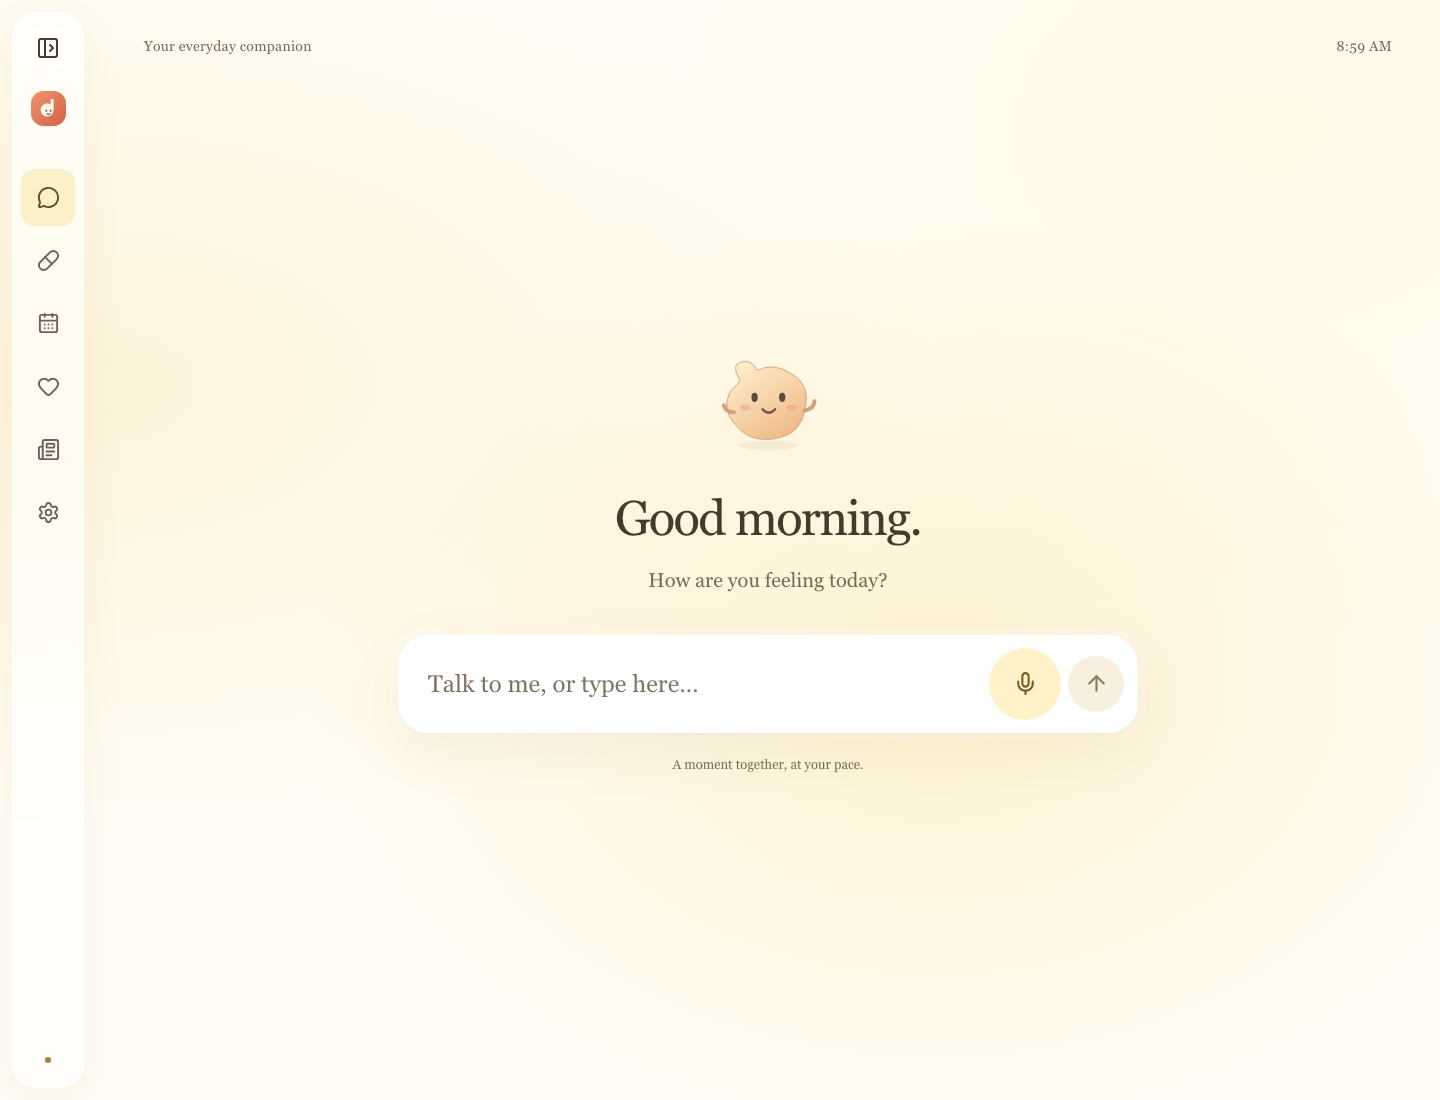
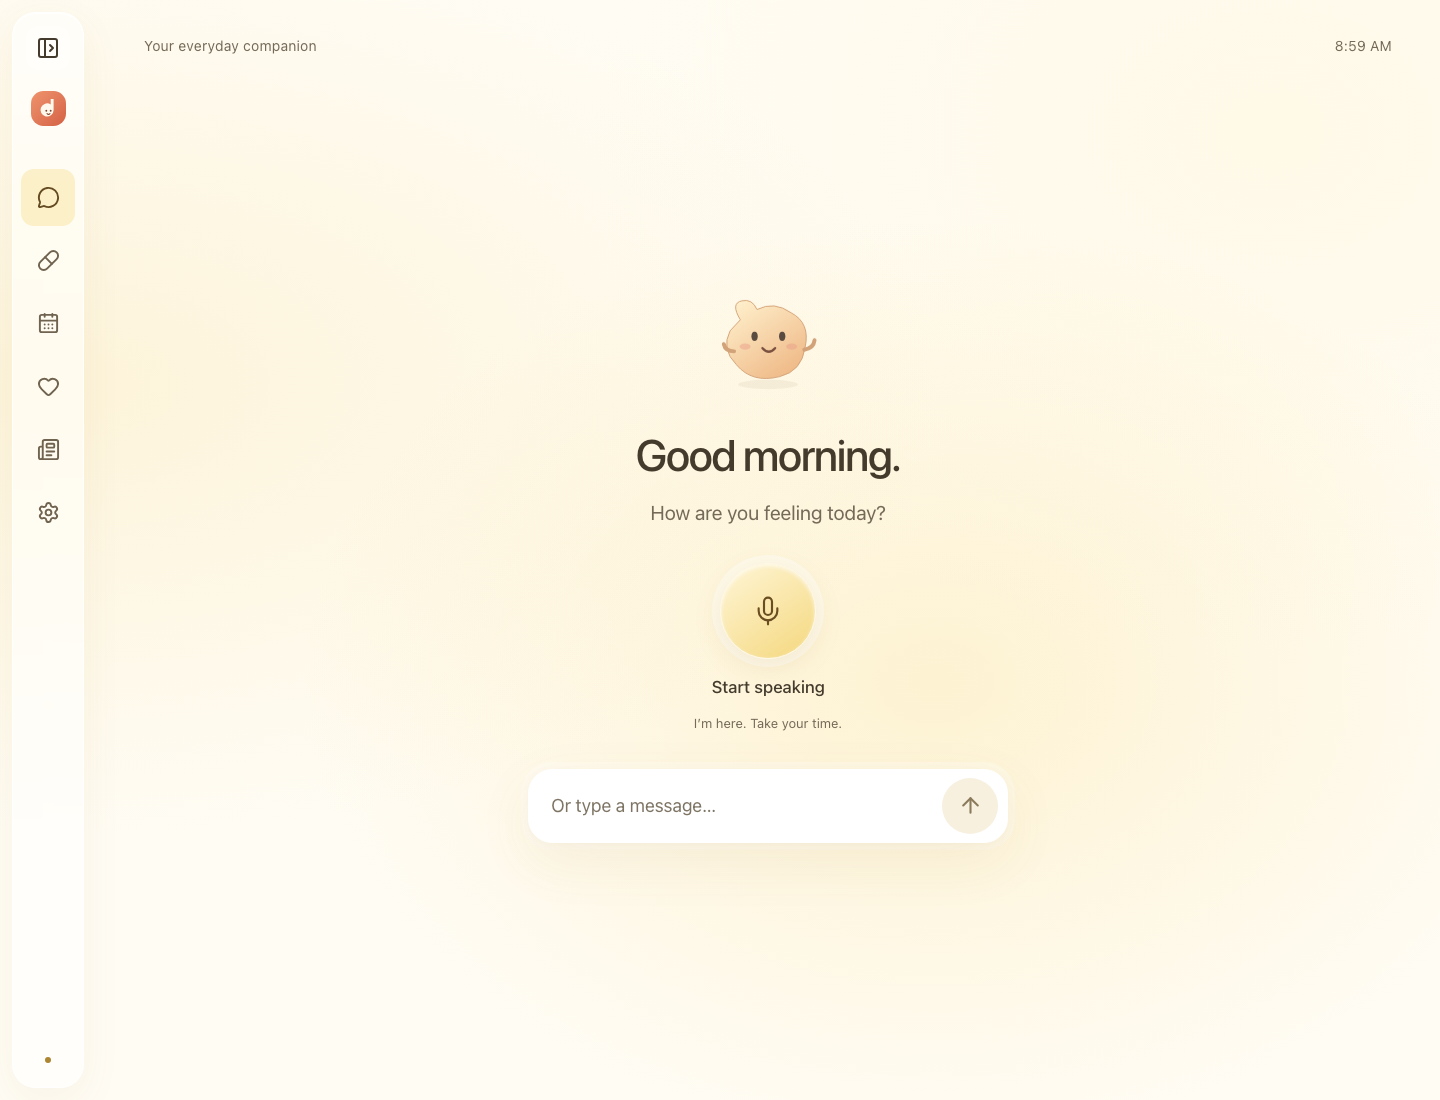
Make speaking the clearest way to begin with Dayla
Constraint: Replace serif typography with a clean voice-first interface.
Confidence: high
Scope-risk: narrow
Tested: 17 browser tests including voice lifecycle, accessibility and reflow; build, typecheck, lint, format, visual review

diff --git a/src/client/App.tsx b/src/client/App.tsx
@@ -373,8 +373,41 @@ export default function App() {
                 <h1 tabIndex={-1}>{greeting}</h1>
                 <p>How are you feeling today?</p>
               </div>
+              <button
+                type="button"
+                className={`voice-trigger ${voice.phase === 'listening' ? 'is-listening' : ''}`}
+                aria-label={voice.phase === 'listening' ? 'Finish speaking' : 'Start speaking'}
+                aria-describedby="voice-status"
+                disabled={!online || sending}
+                onClick={micClick}
+              >
+                <span className="voice-orb" aria-hidden="true">
+                  {voice.phase === 'listening' ? (
+                    <Square size={28} />
+                  ) : (
+                    <Mic size={32} strokeWidth={1.6} />
+                  )}
+                </span>
+                <span>{voice.phase === 'listening' ? 'Finish speaking' : 'Start speaking'}</span>
+              </button>
+              <div id="voice-status" className="conversation-status" role="status">
+                {sending ? 'Thinking…' : voice.message || 'I’m here. Take your time.'}
+              </div>
+              {(voice.phase === 'speaking' ||
+                voice.phase === 'listening' ||
+                voice.phase === 'thinking') && (
+                <button className="quiet-control" onClick={cancelSpeech}>
+                  <Square size={16} />
+                  Stop{' '}
+                  {voice.phase === 'listening'
+                    ? 'listening'
+                    : voice.phase === 'thinking'
+                      ? 'waiting'
+                      : 'speaking'}
+                </button>
+              )}
               <form
-                className={`composer ${voice.phase === 'listening' ? 'is-listening' : ''}`}
+                className="composer"
                 onSubmit={(e) => {
                   e.preventDefault();
                   void send(input);
@@ -387,23 +420,12 @@ export default function App() {
                   id="message"
                   value={input}
                   maxLength={1000}
-                  placeholder={
-                    voice.phase === 'listening' ? 'I’m listening…' : 'Talk to me, or type here…'
-                  }
+                  placeholder="Or type a message…"
                   onChange={(e) => setInput(e.target.value)}
                   disabled={sending}
                   autoComplete="off"
                 />
                 <div className="composer-actions">
-                  <button
-                    type="button"
-                    className={`mic-button icon-button ${voice.phase === 'listening' ? 'listening' : ''}`}
-                    aria-label={voice.phase === 'listening' ? 'Finish speaking' : 'Start speaking'}
-                    disabled={!online || sending}
-                    onClick={micClick}
-                  >
-                    {voice.phase === 'listening' ? <Square size={23} /> : <Mic size={25} />}
-                  </button>
                   <button
                     type="submit"
                     className="send-button icon-button"
@@ -429,22 +451,6 @@ export default function App() {
                     Use browser voice
                   </button>
                 </div>
-              )}
-              <div className="conversation-status" role="status">
-                {sending ? 'Thinking…' : voice.message || 'A moment together, at your pace.'}
-              </div>
-              {(voice.phase === 'speaking' ||
-                voice.phase === 'listening' ||
-                voice.phase === 'thinking') && (
-                <button className="quiet-control" onClick={cancelSpeech}>
-                  <Square size={16} />
-                  Stop{' '}
-                  {voice.phase === 'listening'
-                    ? 'listening'
-                    : voice.phase === 'thinking'
-                      ? 'waiting'
-                      : 'speaking'}
-                </button>
               )}
               {!!turns.length && (
                 <section

diff --git a/src/client/styles.css b/src/client/styles.css
@@ -1,5 +1,5 @@
 :root {
-  font-family: Georgia, 'Times New Roman', serif;
+  font-family: -apple-system, BlinkMacSystemFont, 'Segoe UI', Arial, sans-serif;
   color: #443b2d;
   background: #fffcf4;
   font-synthesis: none;
@@ -95,8 +95,8 @@ p {
 }
 h1,
 h2 {
-  font-family: Georgia, 'Times New Roman', serif;
-  font-weight: 400;
+  font-family: -apple-system, BlinkMacSystemFont, 'Segoe UI', Arial, sans-serif;
+  font-weight: 500;
   letter-spacing: -0.035em;
   line-height: 1.22;
 }
@@ -316,12 +316,12 @@ small {
 }
 .welcome {
   text-align: center;
-  margin-bottom: 39px;
+  margin-bottom: 22px;
 }
 .welcome h1 {
-  font-size: clamp(35px, 4vw, 49px);
+  font-size: clamp(34px, 3.5vw, 44px);
   margin: 23px 0 15px;
-  font-weight: 400;
+  font-weight: 500;
   letter-spacing: -0.035em;
 }
 .welcome p {
@@ -339,10 +339,11 @@ small {
   display: flex;
   align-items: center;
   gap: 14px;
-  width: 100%;
-  padding: 12px 13px 12px 29px;
+  width: min(480px, 100%);
+  margin-top: 28px;
+  padding: 8px 9px 8px 22px;
   border: 1px solid #fff;
-  border-radius: 30px;
+  border-radius: 24px;
   background: #fff;
   box-shadow:
     0 18px 55px #93732b14,
@@ -364,7 +365,7 @@ small {
   flex: 1;
   min-height: 56px;
   padding: 6px 0;
-  font-size: 20px;
+  font-size: 18px;
   outline: none;
   color: var(--ink);
 }
@@ -379,13 +380,50 @@ small {
   gap: 7px;
   align-items: center;
 }
-.mic-button {
-  background: #fff2c9;
-  color: #785b25;
+.voice-trigger {
+  flex-direction: column;
+  gap: 18px;
+  border: 0;
+  border-radius: 24px;
+  background: transparent;
+  padding: 12px 24px;
+  font-size: 17px;
+  font-weight: 500;
+  color: var(--ink);
 }
-.mic-button:hover,
-.mic-button.listening {
-  background: #f9e5a8;
+.voice-trigger:hover {
+  background: transparent;
+}
+.voice-orb {
+  display: grid;
+  place-items: center;
+  width: 96px;
+  height: 96px;
+  border-radius: 50%;
+  background: linear-gradient(145deg, #fff6d7, #f4d77d);
+  border: 1px solid #fff9e8;
+  box-shadow:
+    0 8px 28px #a77c2420,
+    0 0 0 8px #ffffff66,
+    inset 0 2px 4px #ffffffb3;
+  color: #6a4d20;
+  transition:
+    box-shadow 0.2s,
+    transform 0.2s;
+}
+.voice-trigger:hover .voice-orb {
+  transform: translateY(-2px);
+  box-shadow:
+    0 12px 32px #a77c2430,
+    0 0 0 10px #ffffff80,
+    inset 0 2px 4px #ffffffb3;
+}
+.voice-trigger.is-listening .voice-orb {
+  background: #765323;
+  color: white;
+  box-shadow:
+    0 0 0 8px #f2d78b80,
+    0 0 0 16px #f2d78b30;
 }
 .send-button {
   background: #765323;
@@ -399,18 +437,12 @@ small {
   color: #8b7b5c;
   opacity: 1;
 }
-.composer.is-listening {
-  border-color: #b28a32;
-  box-shadow:
-    0 0 0 6px #f7df9555,
-    0 9px 35px #93732b14;
-}
 .conversation-status {
   font-size: 13px;
   text-align: center;
   color: #756a58;
   min-height: 28px;
-  margin-top: 21px;
+  margin: 4px 0 0;
   line-height: 1.65;
   max-width: 560px;
 }
@@ -1028,7 +1060,7 @@ dialog h2 {
   }
   .conversation-status {
     font-size: 12px;
-    margin-top: 20px;
+    margin-top: 4px;
     max-width: 290px;
   }
   .has-turns {
@@ -1160,10 +1192,10 @@ dialog h2 {
   display: inline-flex;
   align-items: center;
   gap: 11px;
-  font-family: Georgia, 'Times New Roman', serif;
+  font-family: -apple-system, BlinkMacSystemFont, 'Segoe UI', Arial, sans-serif;
   font-size: 29px;
-  font-weight: 500;
-  letter-spacing: -1.5px;
+  font-weight: 650;
+  letter-spacing: -1.2px;
   line-height: 1;
 }
 .wordmark .dayla-logo svg {
@@ -1197,14 +1229,6 @@ dialog h2 {
 }
 .character-thinking {
   animation: dayla-think 1.8s ease-in-out infinite;
-}
-.composer .mic-button {
-  width: 72px;
-  height: 72px;
-  min-height: 72px;
-}
-.composer input {
-  font-size: 24px;
 }
 .conversation-turn p {
   font-size: 28px;
@@ -1250,12 +1274,6 @@ dialog h2 {
   }
   .composer input {
     font-size: 18px;
-  }
-  .composer .mic-button {
-    width: 60px;
-    height: 72px;
-    min-height: 72px;
-    border-radius: 22px;
   }
   .composer .send-button {
     width: 42px;

diff --git a/docs/DESIGN.md b/docs/DESIGN.md
@@ -2,7 +2,7 @@
 
 ## Current direction
 
-The 2026-10-20 voice-first request supersedes the earlier Korean card dashboard. The interface is English. Home contains a time-of-day greeting, a small original character and one composer with microphone and send controls. Subtle warm yellow light sits behind the interaction area; generous white space keeps the starting state quiet. Translucent white panels use backdrop blur, white edge highlights and soft amber shadows. The composer and form inputs stay white for a clear reading surface. Georgia, with Times New Roman and serif fallbacks, gives headings, body copy and the wordmark a consistent serif treatment without a font download.
+The 2026-10-20 voice-first request supersedes the earlier Korean card dashboard. The interface is English. Home contains a time-of-day greeting, a small original character and a prominent standalone microphone button. Voice status appears directly beneath it; a smaller white text composer provides an always-available alternative. Subtle warm yellow light sits behind the interaction area; generous white space keeps the starting state quiet. Translucent white panels use backdrop blur, white edge highlights and soft amber shadows. The composer and form inputs stay white for a clear reading surface. Native system sans-serif typography keeps headings, body copy and controls clear without a font download.
 
 The left sidebar opens Conversation, Medication, Schedule, Family, News and Settings. It starts as a compact icon rail on desktop, with a toggle to reveal labels. The panel has 24px rounded corners and a 12px inset from the viewport. On mobile it starts hidden and opens as a rounded drawer; Escape and the backdrop close it. Desktop navigation preserves the expanded state, while selecting a mobile destination closes the drawer. Secondary details should not become a dashboard above the home composer. The original Dayla SVG mark and wordmark identify the sidebar; the character is a separate original drawing, not copied Grok branding.
 
